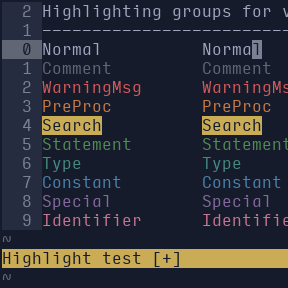
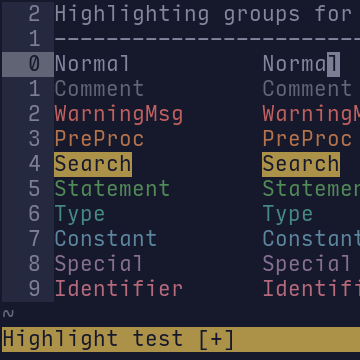
overhaul

diff --git a/README.md b/README.md
@@ -7,8 +7,8 @@
 <table>
 <tr><td align="center"><strong>nemo-dark</strong></td><td align="center"><strong>nemo-light</strong></td></tr>
 <tr>
-<td><img src="/img/screenshot-nemo-dark.png" alt="screenshot of the nemo-dark vim theme" width="288" /></td>
-<td align="center"><img src="/img/screenshot-nemo-light.png" alt="screenshot of the nemo-light vim theme" width="288" /></td>
+<td><img src="/img/screenshot-nemo-dark.png" alt="screenshot of the nemo-dark vim theme" width="360" /></td>
+<td align="center"><img src="/img/screenshot-nemo-light.png" alt="screenshot of the nemo-light vim theme" width="360" /></td>
 </tr>
 </table>
 
